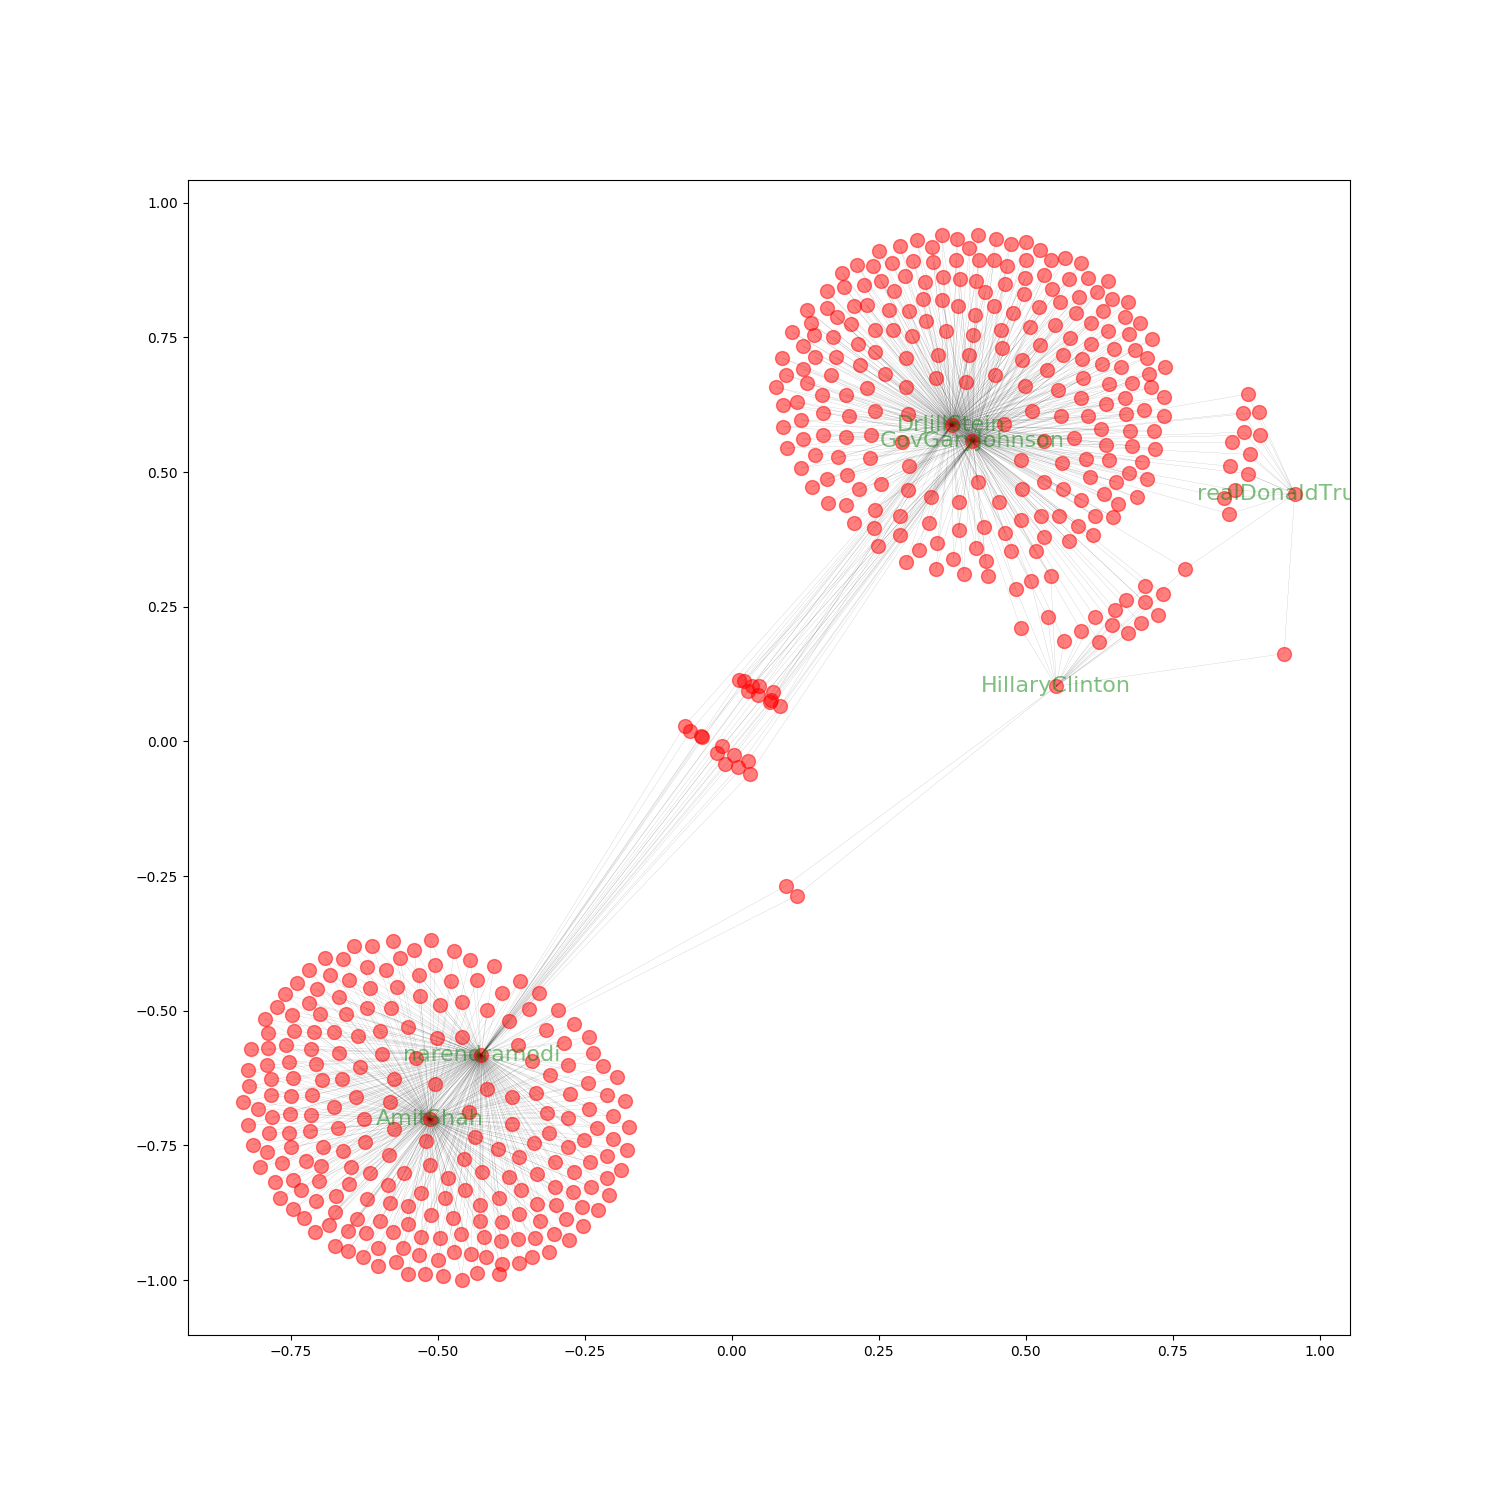
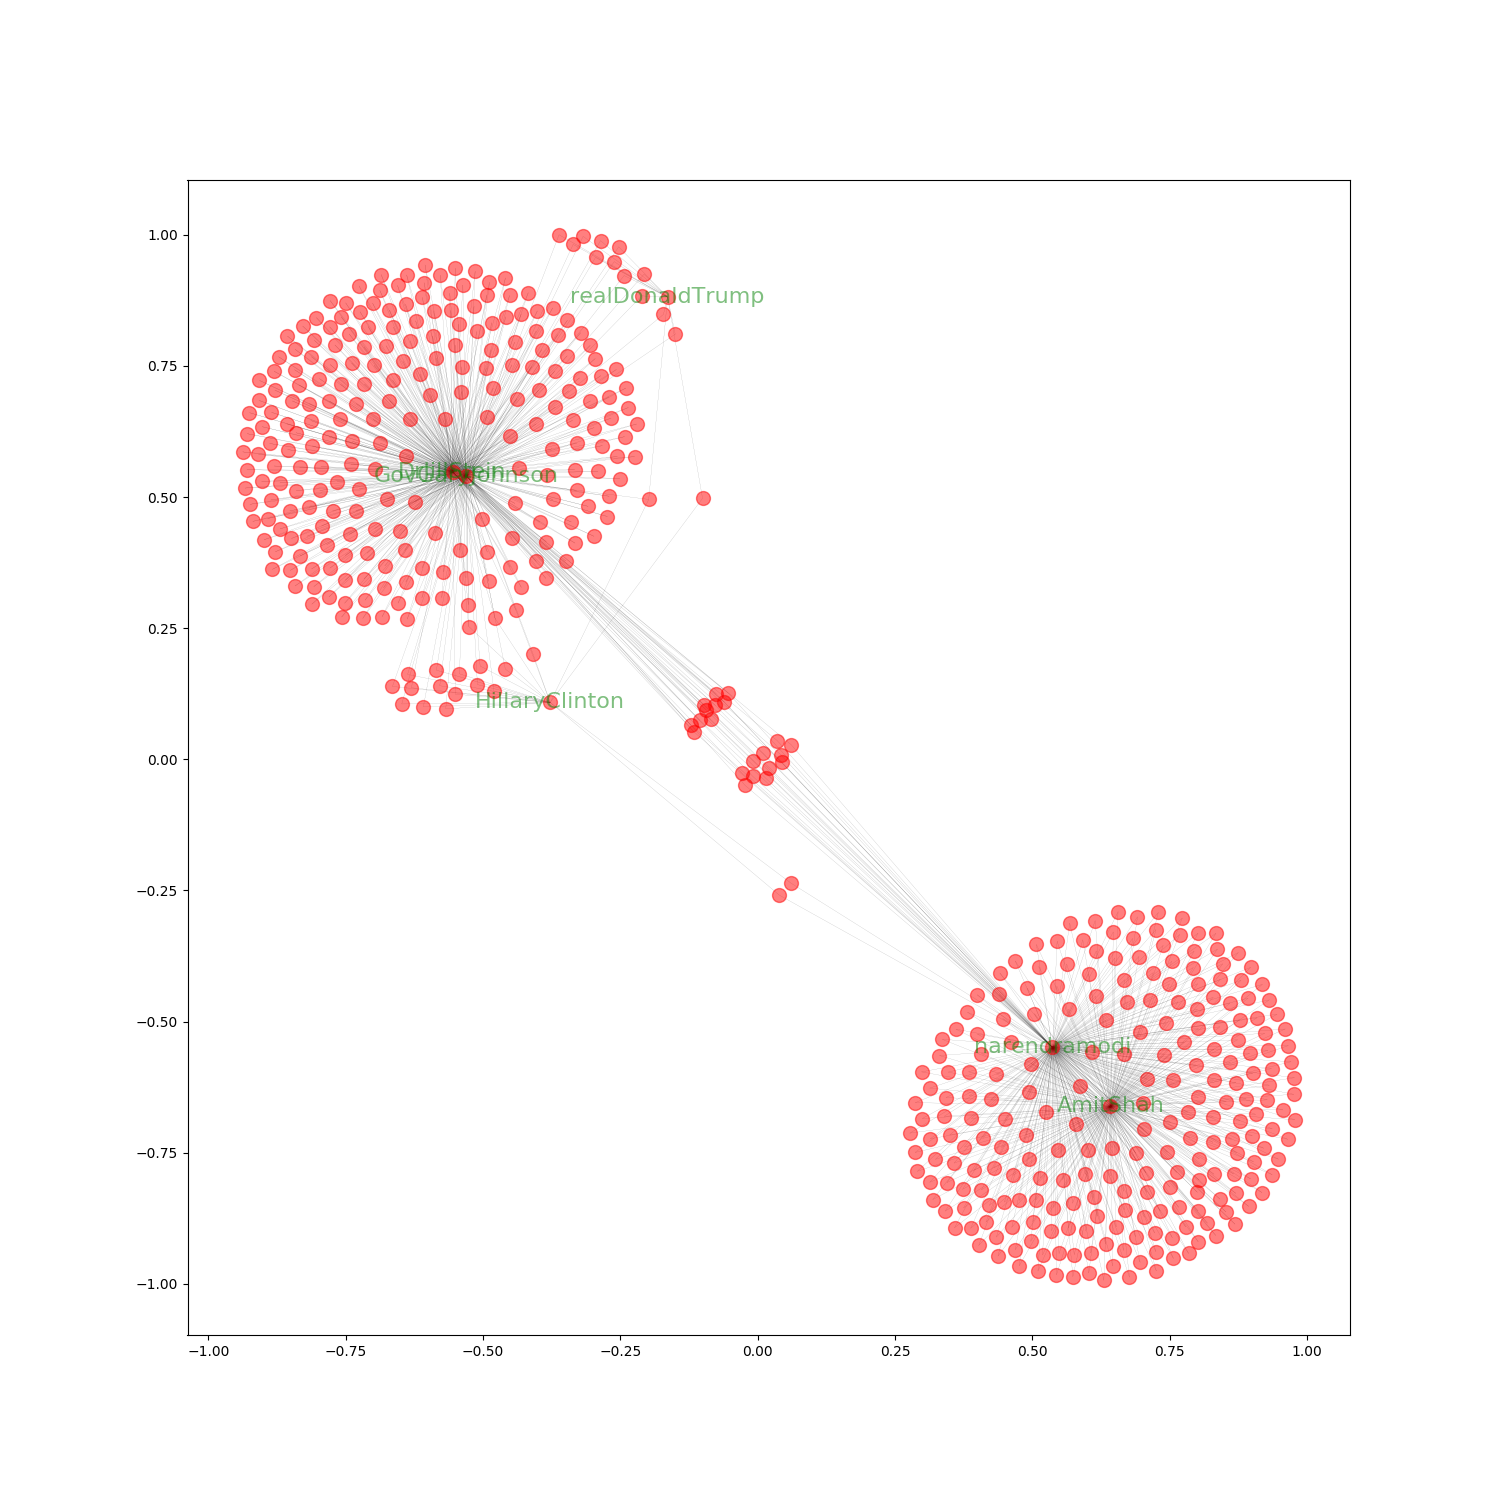
Added community detection

diff --git a/main.py b/main.py
@@ -30,11 +30,13 @@ import networkx as nx
 import sys
 import time
 from TwitterAPI import TwitterAPI
+import community
 
-consumer_key = 'PvyYvRKzcM8sQmtQS17SMuJJW'
-consumer_secret = 'LP9Y85by1QgDWZnbxgDRtevpdWXLl38hJoN3JUB2ueHrpyRdVy'
-access_token = '2797388610-ObMaiSLpL4iMPn8WotIlwZPyeX2Fpz2O9kCS3m0'
-access_token_secret = 'HzcWWScASzQUCUPvCbFqaPiJLvH0zIEWtb3v3WgIWYjZe'
+consumer_key = 'S2Q3pQciEhSrBFAmOJuGjWgTP'
+consumer_secret = 'cPiDwjIil0bfr9BFPEDhmPLHVb4Ozbtou3k0K2ky3nhazuRPpq'
+access_token = '2797388610-osYUypGsFiO419HvefvLoXaIQ7EX7vENQ1UFG0f'
+access_token_secret = 'xvhTkypU2uF7Kx17U1wa0SOeOVnNWEnyOOWohPitC3NEf'
+
 
 
 
@@ -341,13 +343,32 @@ def main():
 
     graph = create_graph(users, friend_counts)
     print('graph has %s nodes and %s edges' % (len(graph.nodes()), len(graph.edges())))
-    draw_network(graph, users, 'network.png')
+    # draw_network(graph, users, 'network.png')
     print('network drawn to network.png')
 
     dc = nx.degree_centrality(graph)
 
     for screen_name in screen_names:
         print(f"Degree Centrality of {screen_name} is {dc[screen_name]}")
+
+    partition = community.best_partition(graph)
+
+    #drawing
+    size = float(len(set(partition.values())))
+    pos = nx.spring_layout(graph)
+    count = 0.
+    for com in set(partition.values()) :
+        count = count + 1.
+        list_nodes = [nodes for nodes in partition.keys()
+                                    if partition[nodes] == com]
+        nx.draw_networkx_nodes(graph, pos, list_nodes, node_size = 20,
+                                    node_color = str(count / size))
+
+
+    nx.draw_networkx_edges(graph, pos, alpha=0.5)
+    plt.show()
+
+
 
 
 if __name__ == '__main__':

diff --git a/test.py b/test.py
@@ -1,0 +1,11 @@
+from TwitterAPI import TwitterAPI
+
+consumer_key = 'S2Q3pQciEhSrBFAmOJuGjWgTP'
+consumer_secret = 'cPiDwjIil0bfr9BFPEDhmPLHVb4Ozbtou3k0K2ky3nhazuRPpq'
+access_token_key = '2797388610-osYUypGsFiO419HvefvLoXaIQ7EX7vENQ1UFG0f'
+access_token_secret = 'xvhTkypU2uF7Kx17U1wa0SOeOVnNWEnyOOWohPitC3NEf'
+
+api = TwitterAPI(consumer_key, consumer_secret, access_token_key, access_token_secret)
+r = api.request('statuses/filter', {'locations':'-74,40,-73,41'})
+for item in r:
+        print(item)
